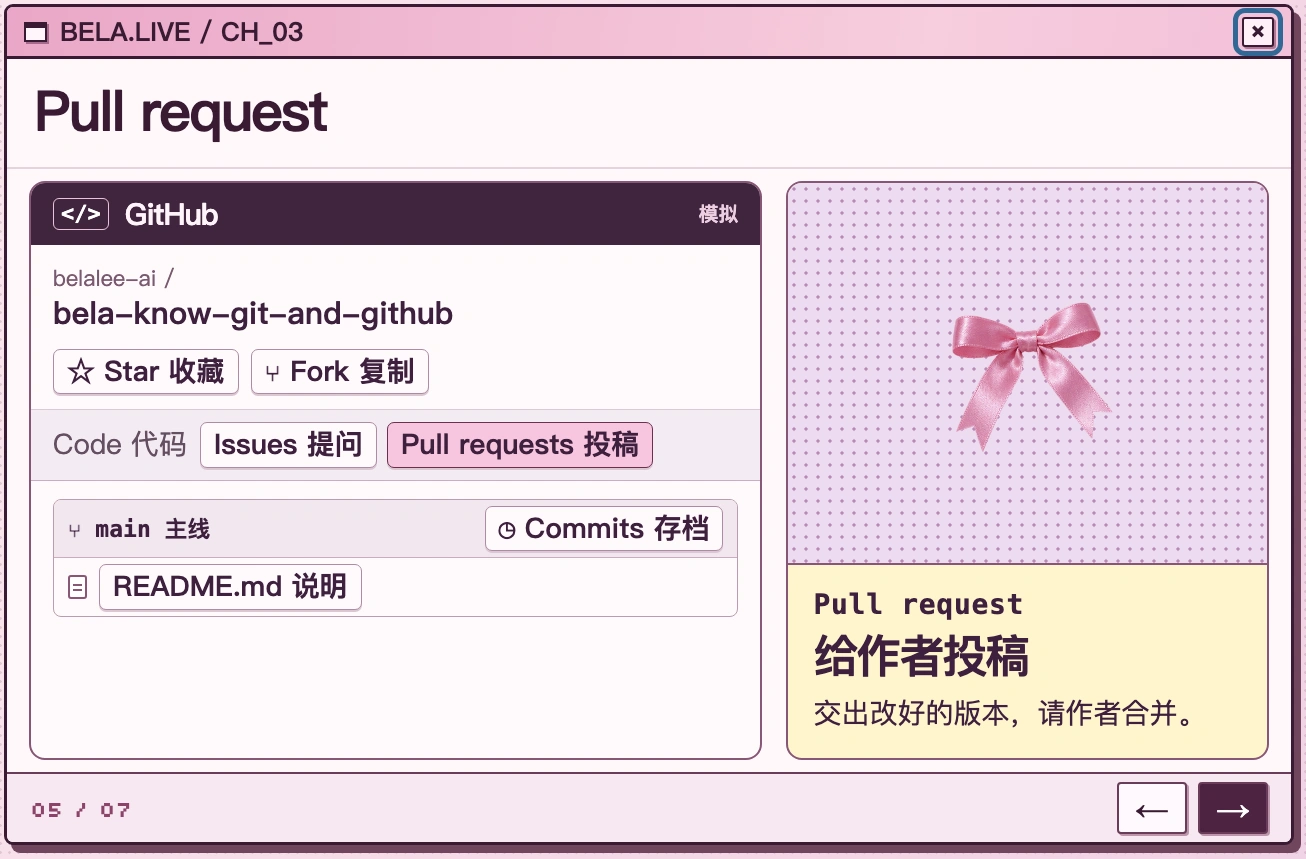
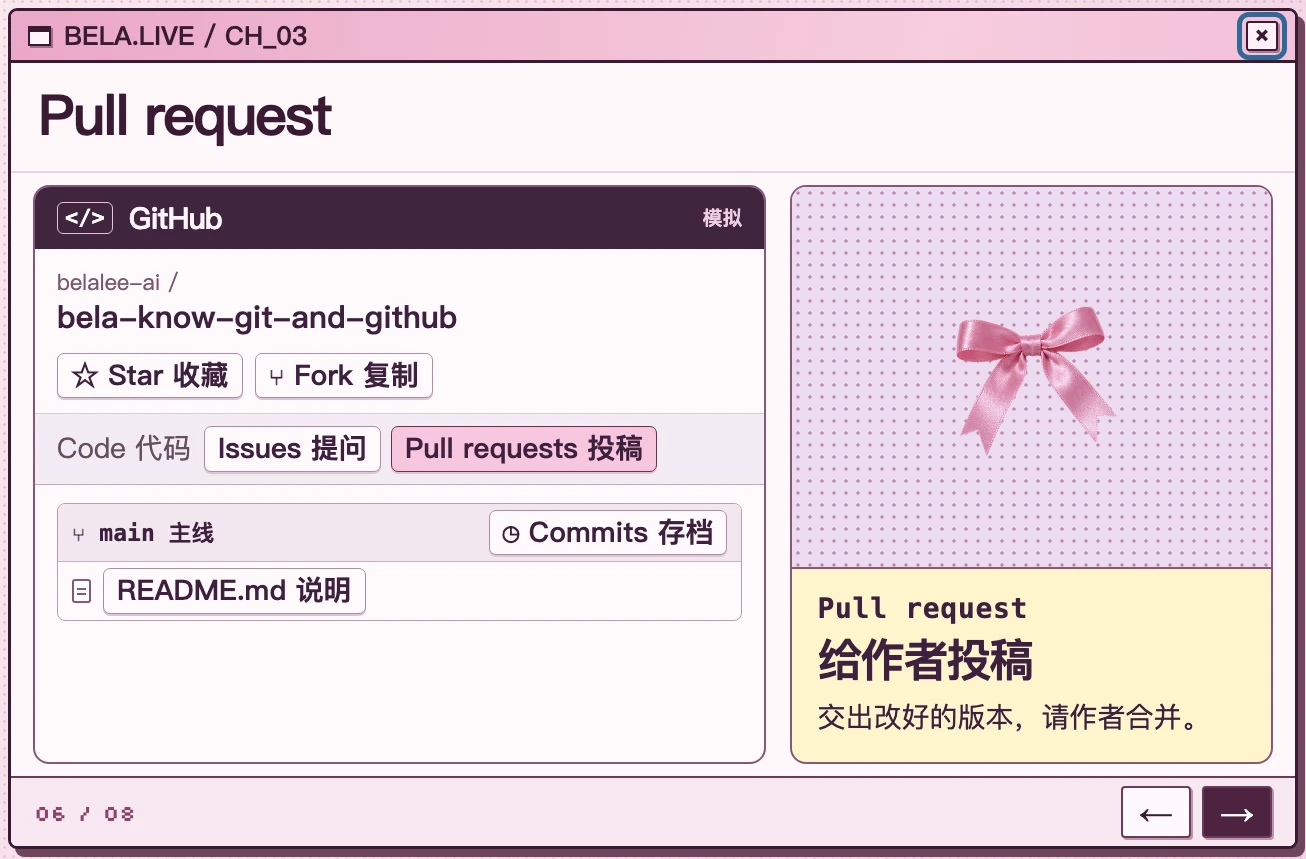
docs: 用实拍图和两次真实提交说明怎样只分享一处修改

Changed region(s): [[0.0, 0.0, 1.0, 0.9988]]

diff --git a/README.md b/README.md
@@ -28,16 +28,24 @@ cd bela-know-git-and-github
 
 </details>
 
-## 三个可以亲手试的场景
+## 可以亲手试的场景
 
 | 第 1 节 · 给论文存个档 | 第 3 节 · 给作者投个稿 |
 | --- | --- |
 | ![回看论文旧版本时，红绿文字标出修改前后的片段](docs/images/thesis.webp) | ![模拟仓库里点开 Pull request，右侧卡片解释怎样把修改交给作者](docs/images/github.webp) |
 | 点回 V1，看看刚改的那句话原来怎么写。 | 点 **Pull requests 投稿**，看看改完自己的副本后，怎样请原作者收下修改。 |
 
+### 第 3 节 · 改了两处，怎样只发一处给朋友？
+
+按 `3`，点 **试试只发一处 → 改两处**。在工作区只勾「标题」，点「提交」，看哪一栏先变成 V2。再点「推送」，先猜朋友电脑上的署名，然后点「朋友拉取」揭晓。你也可以改选署名，或把留下的草稿另存为 V3。
+
+![拉取后的四份探店稿，工作区保留新署名贝拉，本机存档、GitHub 和朋友电脑只收到新标题街角，署名仍为小王](docs/images/sync.webp)
+
+这个仓库里就有一个真实例子。开发时，第 3 节和第 6 节都改到了同一个文件 `js/lessons-gallery.js`。第一份存档只选第 3 节的改动，第二份再选第 6 节的改动。点开两次提交，找到这个文件，就能逐行对照。[第一次：让朋友收到新标题](https://github.com/belalee-ai/bela-know-git-and-github/commit/9727a1f7c1eae5d4d45f6e053e142781346c08bd) · [第二次：建仓时选谁能看](https://github.com/belalee-ai/bela-know-git-and-github/commit/6197907de84bf7c265b14652fb405bc3d45763e1)
+
 ### 第 6 节 · 翻开我的 28 次真实存档
 
-在第四章「换色」点开 `9dc6d9e`，就能看到个人网站从粉红换成柠檬绿的那次修改，以及增加、删去了多少行。这里用的是李贝拉Bela 做个人网站时真正留下的记录。
+在第四章「换色」点开 `9dc6d9e`，就能看到个人网站从粉红换成柠檬绿的那次修改。点「问 AI」可以看如何用这串编号指明要问的那一版。翻到「新建仓库」，再试试公开或私有分别对谁可见，选一份 README 分享。
 
 ![个人网站第四章的真实提交记录，选中 9dc6d9e 后显示主题换色的说明和增删行数](docs/images/history.webp)
 

diff --git a/BUILD_NOTES.md b/BUILD_NOTES.md
@@ -2,7 +2,7 @@
 
 2026-11-18 在初版开发分支 `build/gpt` 完成 Antigravity 构建任务书里的六节课、30 秒循环、20 词翻译机、每节弹幕投票和第二屏提词卡。完整网页现已整合到默认分支 `main`，直播入口是根目录的 `index.html`。从创建独立工作区到首次公开仓库干净克隆复测，约 18 分钟。
 
-## 验收
+## 初版验收
 
 | 项目 | 实测结果 |
 | --- | --- |
@@ -12,6 +12,12 @@
 | 直播画面 | 1920×1080 截取 19 张关键操作图和 45 张逐屏巡检图。右下 400×300 留空；抽查 112 个观众画面状态，计入常驻工具和回顾五幕中的峰值，每屏至多 80 个可见汉字。 |
 
 源数据日期和复核链接见 [数据来源](docs/sources.md)。论文输入是限长的教学模拟，回看版本不会改动电脑上的真实文档。观众提问、投票和关注由主播在直播间接收。
+
+## 加入选择性存档后的复验
+
+- 第 3 节分三次练习，分别只选标题、只选署名、两处都选。提交、推送和拉取后都对照四份稿件。只选一处时，可以把剩下的一处另存为 V3。取消所有勾选后，提交按钮停用。
+- 第 6 节逐条打开 28 次真实提交的离线提问示例，再切换公开与私有，选 README 上传并重新练习。术语翻译机现有 27 张词卡。
+- 断网 Chrome 生成 22 张操作截图、46 张逐步截图，未发现浏览器错误或外部请求。额外抽查 194 个观众画面状态，每个状态均计入右侧五幕回顾的峰值，整屏最多 80 个可见汉字。
 
 ## 开播当天
 

diff --git a/docs/sources.md b/docs/sources.md
@@ -41,3 +41,7 @@ OpenClaw 同次快照有 82,923 个 fork。贡献者约 3,808 位，按包含匿
 ## 术语与类比
 
 术语翻译机将 Git 和 GitHub 文档里的操作转成大白话。「存档」指一次 commit，「投稿」指发起 pull request。「论文」「游戏存档」和「点赞收藏」是帮助解释的类比。[GitHub 关于 Git 的说明](https://docs.github.com/en/get-started/using-git/about-git) · [GitHub 官方术语表](https://docs.github.com/en/get-started/learning-about-github/github-glossary)
+
+第 3 节用一篇稿的两处修改演示分块暂存。提交记录暂存内容，推送把提交送到远端，朋友拉取后在自己的分支上看到新版本。演示从双方已有同一版本、朋友没有额外改动的状态开始。提词卡还给出了 VS Code 里暂存所选行的做法。[Git 官方书：选择本次提交的改动](https://git-scm.com/book/en/v2/Git-Tools-Interactive-Staging) · [Git 官方书：使用远程仓库](https://git-scm.com/book/en/v2/Git-Basics-Working-with-Remotes) · [VS Code 官方图解](https://code.visualstudio.com/docs/sourcecontrol/staging-commits#_stage-specific-lines-or-code-blocks)
+
+第 6 节把仓库可见性与写入权限分别讲解。网页上传时由操作者明确选择文件；本地的 `.gitignore` 匹配尚未跟踪的文件。[GitHub 仓库说明](https://docs.github.com/en/repositories/creating-and-managing-repositories/about-repositories) · [Git 忽略规则](https://git-scm.com/docs/gitignore)

diff --git a/docs/brief.md b/docs/brief.md
@@ -6,10 +6,10 @@
 | --- | --- |
 | 1 · 论文时光机 | 输入一段论文、存档，再打开旧版本，看哪些字发生了变化。 |
 | 2 · 平行宇宙 | 用对话引出分支，给大胆版存档。两条线改了同一句时，由弹幕选合并结果。 |
-| 3 · 逛逛 GitHub | 在本地仓库页面点六个热点，用小红书上的收藏、提问、投稿理解协作。 |
+| 3 · 逛逛 GitHub | 同一篇探店稿改了标题和署名，只挑一处存档。依次点提交、推送和朋友拉取，看四栏里哪份稿变了。回到模拟仓库还能点六个热点，了解收藏、提问和投稿。 |
 | 4 · 开源名人堂 | 推进 Git 和 Linux 的时间线，主讲 OpenClaw，再用 DeepSeek、996.ICU 和 GitHub 全站规模快闪收尾。 |
 | 5 · AI 后悔药 | 让演示助手改好按钮、留下存档，再模拟一次改坏，现场恢复。用大白话比较三种撤销办法。 |
-| 6 · 我的 28 次存档 | 分四章读 belalee-website 的真实提交，再用本地模拟界面走一遍新建仓库和上传文件。 |
+| 6 · 我的 28 次存档 | 分四章读 belalee-website 的真实提交，拿其中一条的编号看离线提问示例。模拟建仓时选公开或私有，看谁能读、谁有权修改，再选出要分享的 README 并提交。 |
 
 ## 直播画面
 
